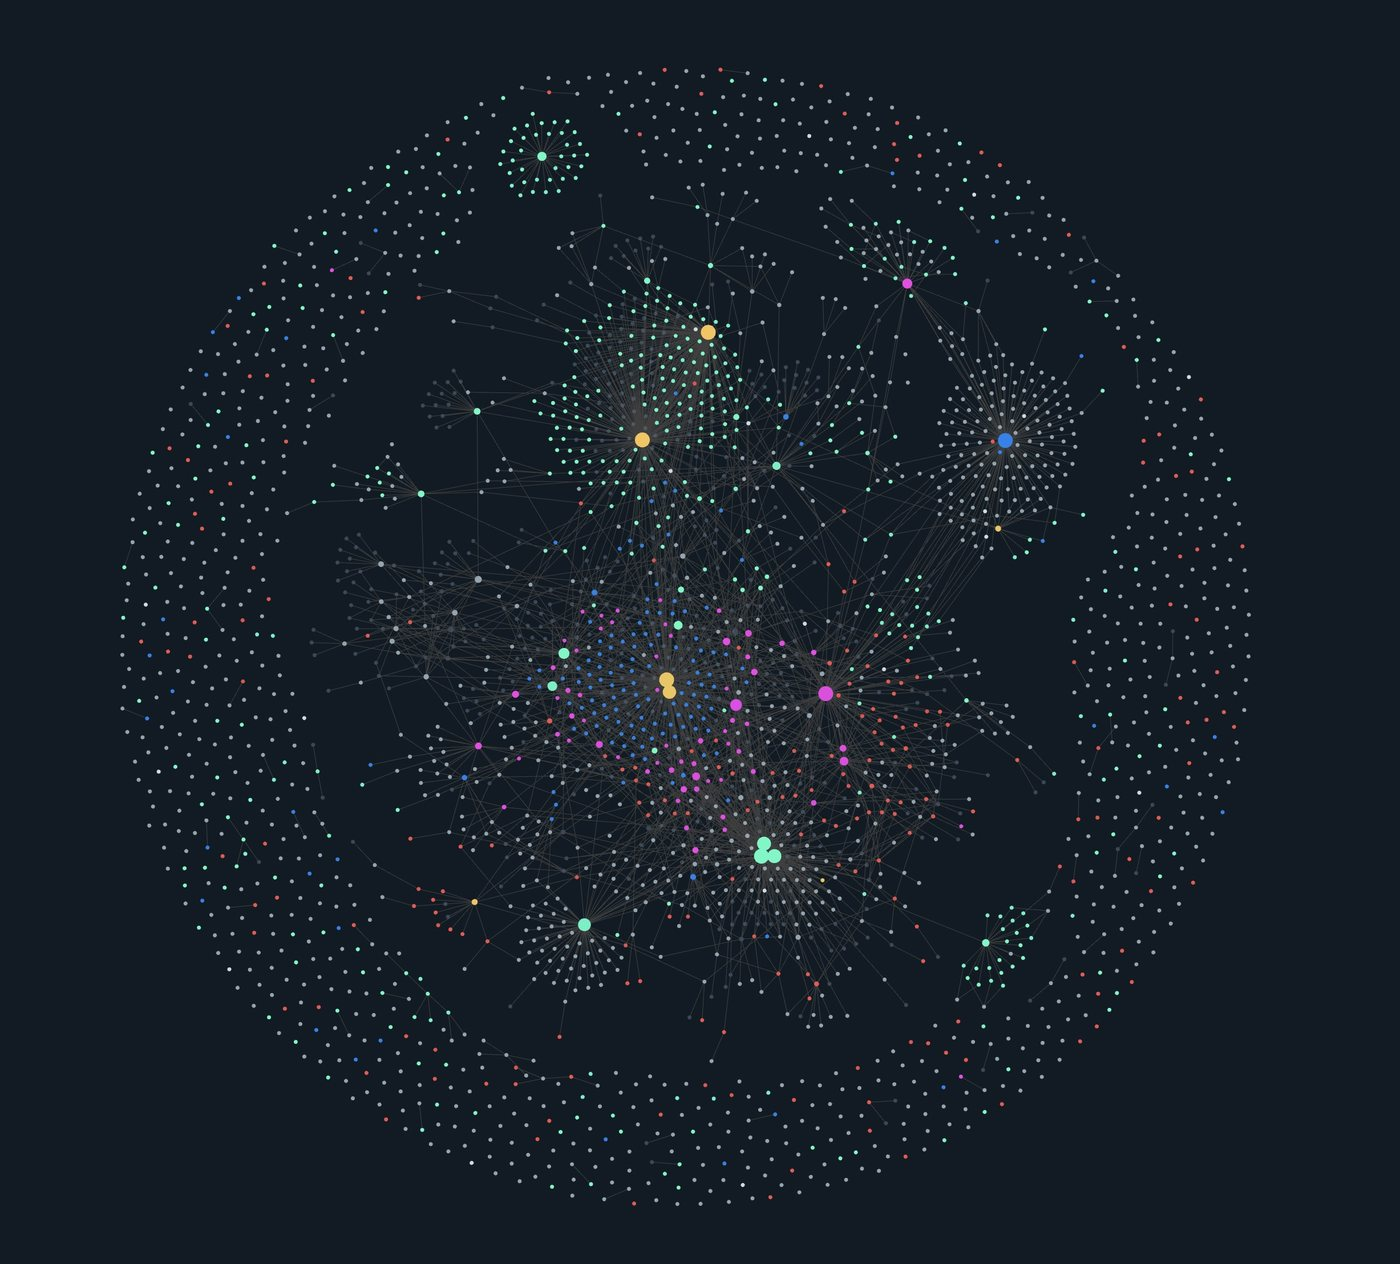
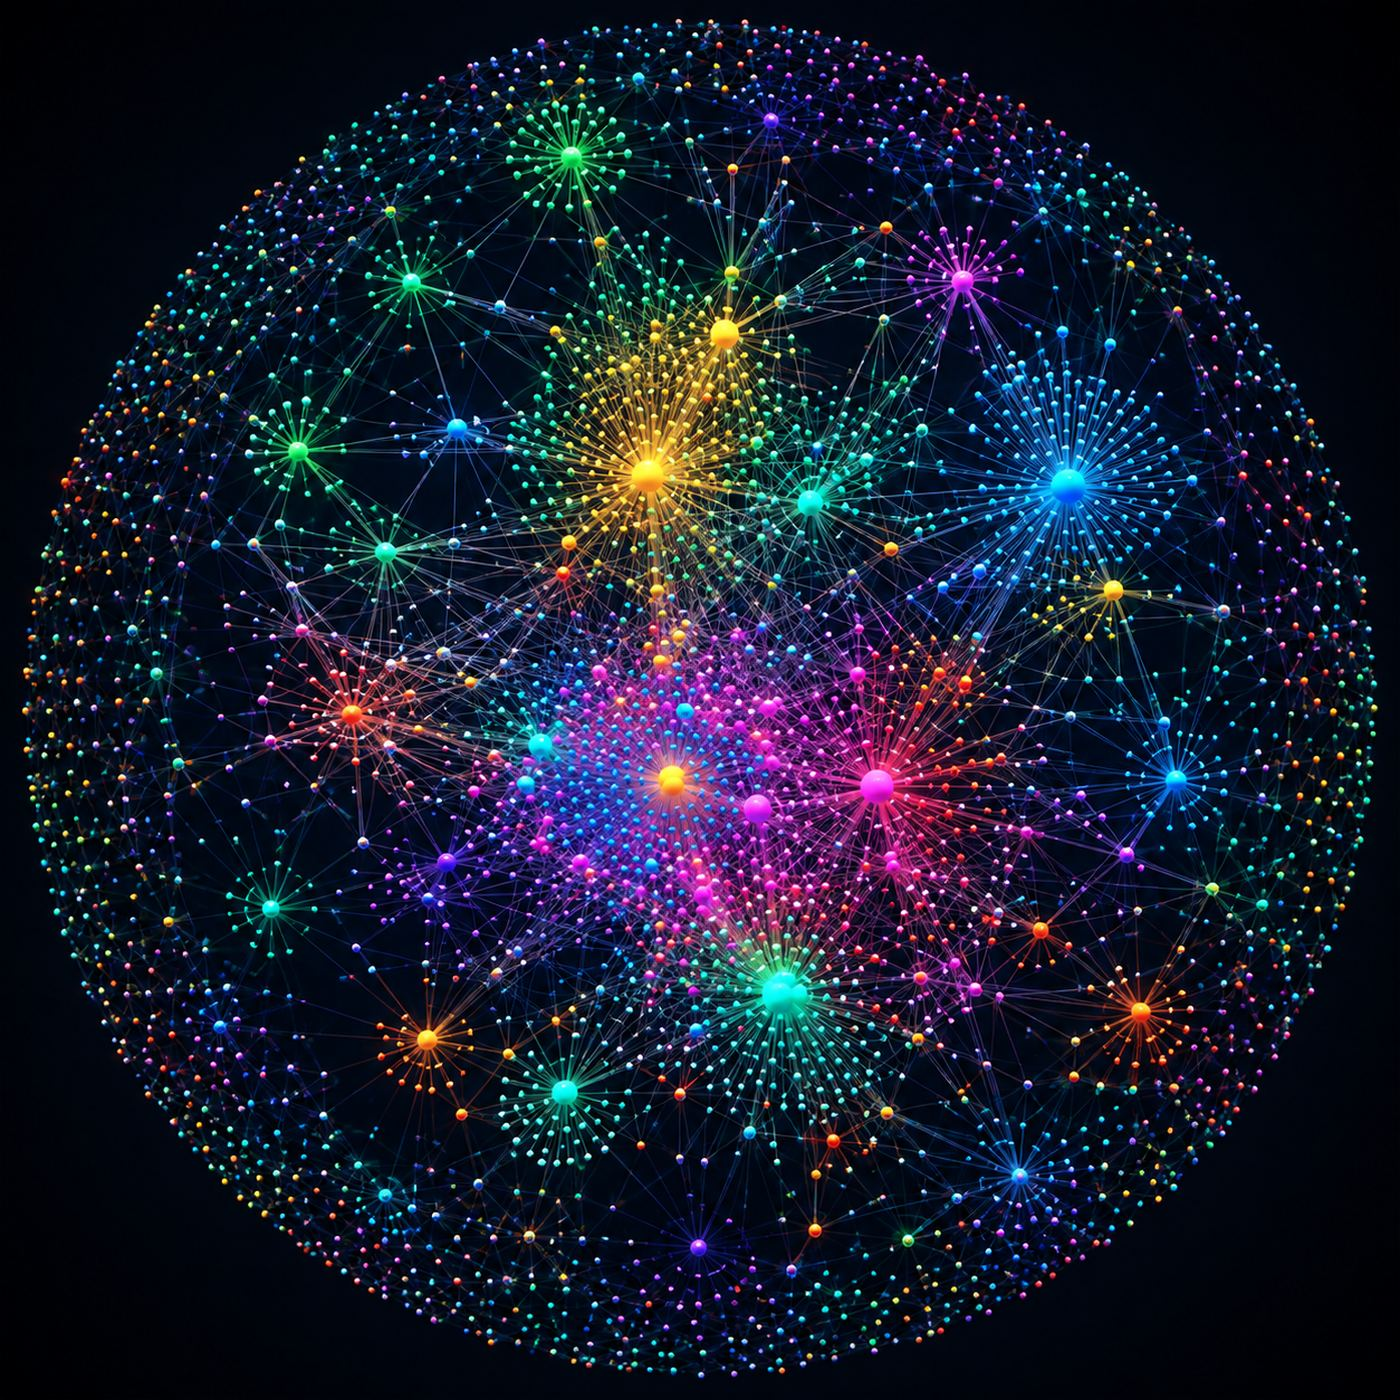
Give the home page a new second brain image and a quieter frame
The graph picture was the flat Obsidian export; it is now the spherical
render, which reads as a brain rather than a screenshot. The page around
it lost the parts that were saying nothing.

- swap all three second-brain-graph sizes and correct the height
  attribute, the image is square now and would otherwise shift layout
- drop the Espoo kicker, the byline and the whole Elsewhere card grid
- keep those pages reachable: link Books from the prose, and repeat the
  nav in the footer where people finish reading and ask what else is here
- site-nav markers take an optional class=, so sync.py can generate the
  same nav in a lighter footer weight instead of it being hand-written
- second brain copy: bird's-eye view, a colon where the ideas join, and
  the full stop that was missing at the end

diff --git a/index.html b/index.html
@@ -49,9 +49,7 @@
 <a class="skip" href="#main">Skip to the content</a>
 
 <header class="hero" id="top">
-  <p class="kicker">Espoo, Finland</p>
   <h1>Anupam Arohi</h1>
-  <p class="byline">Photographs, northern lights, meditation, books and code</p>
   <!-- site-nav:start current="about" -->
   <ul class="nav">
     <li><a href="/" aria-current="page">About</a></li>
@@ -84,7 +82,7 @@
   <div class="lede">
     <p>Hello. I feed birds and squirrels, and sometimes they pose for a photograph before leaving. That is most of what you need to know about me, but here is the rest.</p>
     <p>I live in the Helsinki area of Finland, where nature spots are never far away. I have been <a href="/auroras/">hunting northern lights</a> from here since 2011, and pointing a camera at whatever else turned up along the way: birds, halos, insects, and objects found where they lay.</p>
-    <p>The rest of my leisure time goes to catching up with people, badminton, poker and chess, flying Indian kites, making soap bubbles, juicing, playing with bash and git, and learning more about computing, business and psychology.</p>
+    <p>The rest of my leisure time goes to catching up with people, badminton, poker and chess, flying Indian kites, making soap bubbles, juicing, playing with bash and git, and <a href="/books/">reading</a> about computing, business and psychology.</p>
   </div>
 </div>
 
@@ -96,7 +94,7 @@
 <p>In 2014 I wrote <a href="/lv/">Live Version</a>, versioning that runs itself, for the messy experimental work that never deserves a team commit. I kept commenting out code I was not ready to delete and zipping folders I was afraid to lose, and neither habit was serving me. LV has been quietly backing up my work ever since, and I still develop it.</p>
 
 <h2>Second brain</h2>
-<p>I keep a second brain in Computer, and have done it for a few years now. It runs on my own bend of PARA (Projects, Areas, Resources, Archive), the method Tiago Forte sets out in <a href="https://www.goodreads.com/review/show/4835673491" rel="noopener">Building a Second Brain</a>. Below is the whole vault seen from above. Every dot is a note, every line a link I made because two ideas are connected, and the bright clusters are the topics I work on regularly. If you run one of these too, in Obsidian or Notion or something else, let's grab a coffee together and share our experience</p>
+<p>I keep a second brain on my computer, and have done for a few years now. It runs on my own bend of PARA (Projects, Areas, Resources, Archive), the method Tiago Forte sets out in <a href="https://www.goodreads.com/review/show/4835673491" rel="noopener">Building a Second Brain</a>. Below is the whole vault in bird&rsquo;s-eye view: every dot is a note, every line a link I made because two ideas are connected, and the bright clusters are the topics I work on regularly. If you run one of these too, in Obsidian or Notion or something else, let&rsquo;s grab a coffee together and share our experience.</p>
 
 <figure class="banner">
   <img
@@ -105,39 +103,25 @@
             images/second-brain-graph-1400.jpg 1400w,
             images/second-brain-graph-2000.jpg 2000w"
     sizes="(max-width:840px) 92vw, 792px"
-    width="1400" height="1264"
-    alt="The graph view of my Obsidian vault: hundreds of small dots, each a note, joined by faint lines into bright clusters around the topics I return to most."
+    width="1400" height="1400"
+    alt="A spherical graph view of my second brain: hundreds of coloured dots, each a note, joined by faint lines into bright clusters around the topics I return to most."
     loading="lazy">
-  <figcaption>A few years of notes, seen from above. The bright hubs are the topics I keep returning to.</figcaption>
+  <figcaption>A few years of notes in bird&rsquo;s-eye view. The bright hubs are the topics I keep returning to.</figcaption>
 </figure>
-
-<h2>Elsewhere</h2>
-<ul class="site-list">
-  <li class="site-card">
-    <span class="thumb"><img src="images/grebe-with-a-fish-800.jpg" width="800" height="618" style="object-position:center 72%" alt="A great crested grebe carrying a fish across the water." loading="lazy"></span>
-    <div class="body">
-      <h3><a href="/photos/">Photographs</a></h3>
-      <p>Thirty-eight photographs in six series: auroras and halos over southern Finland, birds, macro work, and found objects.</p>
-    </div>
-  </li>
-  <li class="site-card">
-    <span class="thumb"><img src="images/violet-over-the-birch-800.jpg" width="800" height="450" alt="Violet and magenta aurora flooding the whole sky above a bare birch." loading="lazy"></span>
-    <div class="body">
-      <h3><a href="/auroras/">Aurora guide</a></h3>
-      <p>Everything I have learned about catching the northern lights from southern Finland, written down so you can catch them too.</p>
-    </div>
-  </li>
-  <li class="site-card">
-    <div class="body">
-      <h3><a href="/books/">Books</a></h3>
-      <p>The books that inspired me, with my ratings and whatever I wrote about them. Built from my Goodreads shelves, not by hand.</p>
-    </div>
-  </li>
-</ul>
 
 </main>
 
 <footer>
+  <!-- site-nav:start current="about" class="footer-nav" -->
+  <ul class="footer-nav">
+    <li><a href="/" aria-current="page">About</a></li>
+    <li><a href="/photos/">Photographs</a></li>
+    <li><a href="/auroras/">Aurora guide</a></li>
+    <li><a href="/meditation.html">Meditation</a></li>
+    <li><a href="/books/">Books</a></li>
+    <li><a href="/lv/">Live Version</a></li>
+  </ul>
+  <!-- site-nav:end -->
   <p>Find me on <a href="https://github.com/anupam-arohi">GitHub</a>, <a href="https://www.linkedin.com/in/anupamarohi/">LinkedIn</a> and <a rel="me" href="https://www.instagram.com/anupam_social/">Instagram</a>.</p>
   <p>&copy; 2026 Anupam Arohi. All rights reserved.</p>
   <p><a class="top" href="#top">Back to top</a></p>

diff --git a/_shared/site.css b/_shared/site.css
@@ -142,6 +142,18 @@ footer{
 footer p{margin:0 0 10px}
 .top{display:inline-block;margin-top:8px}
 
+/* The same nav as the header, repeated where people finish reading and ask
+   "what else is here". Lighter than .nav on purpose: a footer nav is a
+   safety net, not a second bar competing with the one at the top. */
+.footer-nav{
+  display:flex;gap:10px 20px;justify-content:center;flex-wrap:wrap;
+  margin:0 0 22px;padding:0;list-style:none;
+  font-size:13px;font-weight:500;
+}
+.footer-nav a{color:var(--muted);border:0}
+.footer-nav a:hover{color:var(--green)}
+.footer-nav a[aria-current="page"]{color:var(--text)}
+
 /* ---------- motion ---------- */
 @media(prefers-reduced-motion:reduce){
   html{scroll-behavior:auto}

diff --git a/site.css b/site.css
@@ -142,6 +142,18 @@ footer{
 footer p{margin:0 0 10px}
 .top{display:inline-block;margin-top:8px}
 
+/* The same nav as the header, repeated where people finish reading and ask
+   "what else is here". Lighter than .nav on purpose: a footer nav is a
+   safety net, not a second bar competing with the one at the top. */
+.footer-nav{
+  display:flex;gap:10px 20px;justify-content:center;flex-wrap:wrap;
+  margin:0 0 22px;padding:0;list-style:none;
+  font-size:13px;font-weight:500;
+}
+.footer-nav a{color:var(--muted);border:0}
+.footer-nav a:hover{color:var(--green)}
+.footer-nav a[aria-current="page"]{color:var(--text)}
+
 /* ---------- motion ---------- */
 @media(prefers-reduced-motion:reduce){
   html{scroll-behavior:auto}

diff --git a/_shared/sync.py b/_shared/sync.py
@@ -18,6 +18,13 @@ WHAT IT DOES
      The current="..." key is the ONE thing each page decides for itself. It
      controls which item gets aria-current="page". Everything else is generated.
 
+     An optional class="..." attribute picks the CSS class on the <ul>, so the
+     same nav can appear twice on a page in two different weights:
+
+         <!-- site-nav:start current="about" class="footer-nav" -->
+
+     It defaults to "nav", which is the header bar.
+
   3. Rewrites section nav (photos only) between site-subnav markers.
 
 USAGE
@@ -107,10 +114,15 @@ def stamp(html, path, problems):
     """Replace every nav and subnav block. Returns the new HTML."""
 
     def nav_sub(m):
-        current = attrs_of(m.group("attrs")).get("current", "")
+        a = attrs_of(m.group("attrs"))
+        current = a.get("current", "")
         if current and current not in {k for k, _, _ in NAV}:
             problems.append(f'{path}: unknown nav key "{current}"')
-        body = render(NAV, current, "nav")
+        # class="" lets a page render the same nav in a lighter footer weight.
+        css_class = a.get("class", "nav")
+        if css_class not in ("nav", "footer-nav"):
+            problems.append(f'{path}: unknown nav class "{css_class}"')
+        body = render(NAV, current, css_class)
         return f'{m.group("open")}\n{body}\n  {m.group("close")}'
 
     def subnav_sub(m):
